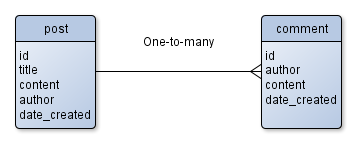
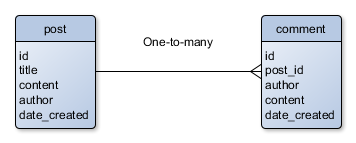
Some style improvements

diff --git a/html/en/Appendix_D__Introduction_to_Doctrine.html b/html/en/Appendix_D__Introduction_to_Doctrine.html
@@ -84,7 +84,7 @@ have one or several columns. A record (or several records) of a table may be lin
 (or several  records) of another table, thus forming a <em>relation</em> between data.</p>
 <p>For example, assume you have a blog website whose database contains two tables: the <code>post</code> table
 and the <code>comment</code> table. The <code>post</code> table would have columns named <code>id</code>, <code>title</code>, <code>content</code>, <code>author</code>, <code>date_created</code>;
-and the <code>comment</code> table would have columns named <code>id</code>, <code>author</code>, <code>content</code>, and <code>date_created</code>. 
+and the <code>comment</code> table would have columns named <code>id</code>, <code>post_id</code>, <code>author</code>, <code>content</code>, and <code>date_created</code>. 
 The <code>post</code> table is related to <code>comment</code> table as one-to-many, because one post has zero or more (many) comments, 
 while a certain comment may belong to a single post only. </p>
 <p>Graphically, the above mentioned tables, their columns and relationship are shown in figure D.1 below.</p>
@@ -366,7 +366,7 @@ instance of that entity class.</p>
             <div class="copyright">
                 Copyright (c) 2016 by Oleg Krivtsov            </div>
             <div class="generated-by">
-                Generated using <a href="https://github.com/olegkrivtsov/openbook">OpenBook</a> on 2016-08-21 at 03:48            </div>
+                Generated using <a href="https://github.com/olegkrivtsov/openbook">OpenBook</a> on 2016-08-21 at 05:46            </div>
         </div>    
     </div>
 </footer>

diff --git a/html/en/Collecting_User_Input_with_Forms.html b/html/en/Collecting_User_Input_with_Forms.html
@@ -2681,7 +2681,7 @@ input errors. If the data is correct, you process the data with your business lo
             <div class="copyright">
                 Copyright (c) 2016 by Oleg Krivtsov            </div>
             <div class="generated-by">
-                Generated using <a href="https://github.com/olegkrivtsov/openbook">OpenBook</a> on 2016-08-21 at 03:48            </div>
+                Generated using <a href="https://github.com/olegkrivtsov/openbook">OpenBook</a> on 2016-08-21 at 05:46            </div>
         </div>    
     </div>
 </footer>

diff --git a/html/en/Appendix_A__Configuring_Web_Development_Environment.html b/html/en/Appendix_A__Configuring_Web_Development_Environment.html
@@ -669,7 +669,7 @@ to navigate, edit and debug your ZF3-based application in an effective manner.</
             <div class="copyright">
                 Copyright (c) 2016 by Oleg Krivtsov            </div>
             <div class="generated-by">
-                Generated using <a href="https://github.com/olegkrivtsov/openbook">OpenBook</a> on 2016-08-21 at 03:48            </div>
+                Generated using <a href="https://github.com/olegkrivtsov/openbook">OpenBook</a> on 2016-08-21 at 05:46            </div>
         </div>    
     </div>
 </footer>

diff --git a/html/en/Introduction_to_Zend_Framework_3.html b/html/en/Introduction_to_Zend_Framework_3.html
@@ -446,7 +446,7 @@ license and can be used for free in both commercial and open-source applications
             <div class="copyright">
                 Copyright (c) 2016 by Oleg Krivtsov            </div>
             <div class="generated-by">
-                Generated using <a href="https://github.com/olegkrivtsov/openbook">OpenBook</a> on 2016-08-21 at 03:48            </div>
+                Generated using <a href="https://github.com/olegkrivtsov/openbook">OpenBook</a> on 2016-08-21 at 05:46            </div>
         </div>    
     </div>
 </footer>

diff --git a/html/en/Preface.html b/html/en/Preface.html
@@ -174,7 +174,7 @@ located under every page. Alternatively, you can contact the author through his 
             <div class="copyright">
                 Copyright (c) 2016 by Oleg Krivtsov            </div>
             <div class="generated-by">
-                Generated using <a href="https://github.com/olegkrivtsov/openbook">OpenBook</a> on 2016-08-21 at 03:48            </div>
+                Generated using <a href="https://github.com/olegkrivtsov/openbook">OpenBook</a> on 2016-08-21 at 05:46            </div>
         </div>    
     </div>
 </footer>

diff --git a/html/ru/Предисловие.html b/html/ru/Предисловие.html
@@ -175,7 +175,7 @@ HTTP запрос, GET и POST переменные, пространства и
             <div class="copyright">
                 Copyright (c) 2016 by Oleg Krivtsov            </div>
             <div class="generated-by">
-                Generated using <a href="https://github.com/olegkrivtsov/openbook">OpenBook</a> on 2016-08-21 at 03:48            </div>
+                Generated using <a href="https://github.com/olegkrivtsov/openbook">OpenBook</a> on 2016-08-21 at 05:46            </div>
         </div>    
     </div>
 </footer>

diff --git a/html/ru/Приложение_A__Настройка_среды_веб_разработки.html b/html/ru/Приложение_A__Настройка_среды_веб_разработки.html
@@ -655,7 +655,7 @@ to navigate, edit and debug your ZF3-based application in an effective manner.</
             <div class="copyright">
                 Copyright (c) 2016 by Oleg Krivtsov            </div>
             <div class="generated-by">
-                Generated using <a href="https://github.com/olegkrivtsov/openbook">OpenBook</a> on 2016-08-21 at 03:48            </div>
+                Generated using <a href="https://github.com/olegkrivtsov/openbook">OpenBook</a> on 2016-08-21 at 05:46            </div>
         </div>    
     </div>
 </footer>

diff --git a/html/en/Appendix_C__Introduction_to_Twitter_Bootstrap.html b/html/en/Appendix_C__Introduction_to_Twitter_Bootstrap.html
@@ -697,7 +697,7 @@ version of Bootstrap from the project's page and customize it as you wish.</p>
             <div class="copyright">
                 Copyright (c) 2016 by Oleg Krivtsov            </div>
             <div class="generated-by">
-                Generated using <a href="https://github.com/olegkrivtsov/openbook">OpenBook</a> on 2016-08-21 at 03:48            </div>
+                Generated using <a href="https://github.com/olegkrivtsov/openbook">OpenBook</a> on 2016-08-21 at 05:46            </div>
         </div>    
     </div>
 </footer>

diff --git a/html/en/Website_Operation.html b/html/en/Website_Operation.html
@@ -1243,7 +1243,7 @@ a PHP class, but in general it can be a variable or an array, if needed.</p>
             <div class="copyright">
                 Copyright (c) 2016 by Oleg Krivtsov            </div>
             <div class="generated-by">
-                Generated using <a href="https://github.com/olegkrivtsov/openbook">OpenBook</a> on 2016-08-21 at 03:48            </div>
+                Generated using <a href="https://github.com/olegkrivtsov/openbook">OpenBook</a> on 2016-08-21 at 05:46            </div>
         </div>    
     </div>
 </footer>

diff --git a/html/en/Advanced_Usage_of_Forms.html b/html/en/Advanced_Usage_of_Forms.html
@@ -572,7 +572,7 @@ Request Forgery (abbreviated as CSRF) hacker attack prevention.</p>
             <div class="copyright">
                 Copyright (c) 2016 by Oleg Krivtsov            </div>
             <div class="generated-by">
-                Generated using <a href="https://github.com/olegkrivtsov/openbook">OpenBook</a> on 2016-08-21 at 03:48            </div>
+                Generated using <a href="https://github.com/olegkrivtsov/openbook">OpenBook</a> on 2016-08-21 at 05:46            </div>
         </div>    
     </div>
 </footer>

diff --git a/html/en/Uploading_Files_with_Forms.html b/html/en/Uploading_Files_with_Forms.html
@@ -1565,7 +1565,7 @@ for doing file uploads and validating the uploaded files.</p>
             <div class="copyright">
                 Copyright (c) 2016 by Oleg Krivtsov            </div>
             <div class="generated-by">
-                Generated using <a href="https://github.com/olegkrivtsov/openbook">OpenBook</a> on 2016-08-21 at 03:48            </div>
+                Generated using <a href="https://github.com/olegkrivtsov/openbook">OpenBook</a> on 2016-08-21 at 05:46            </div>
         </div>    
     </div>
 </footer>
